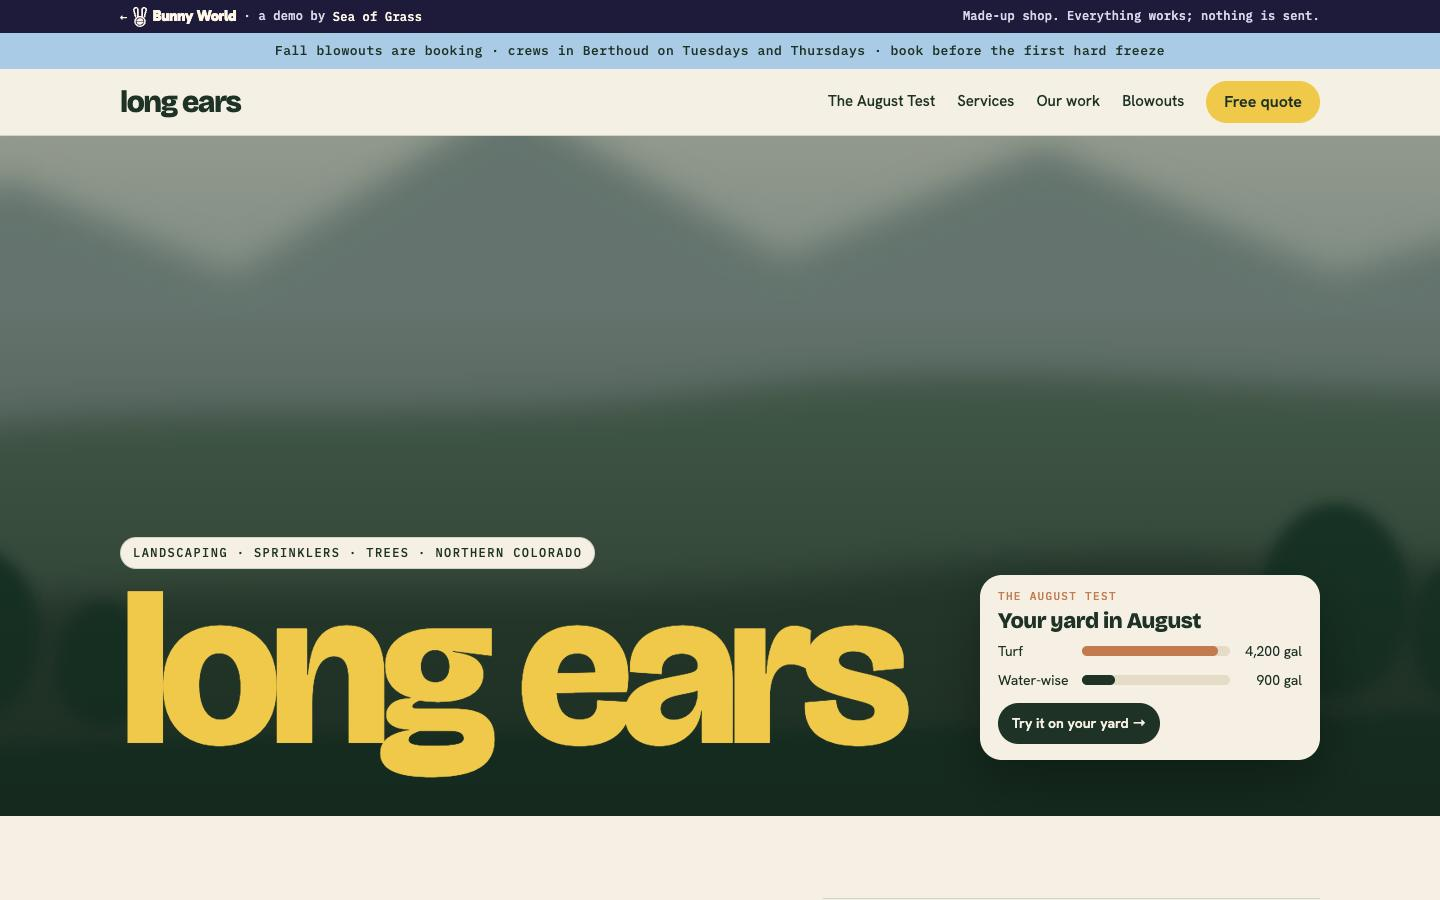
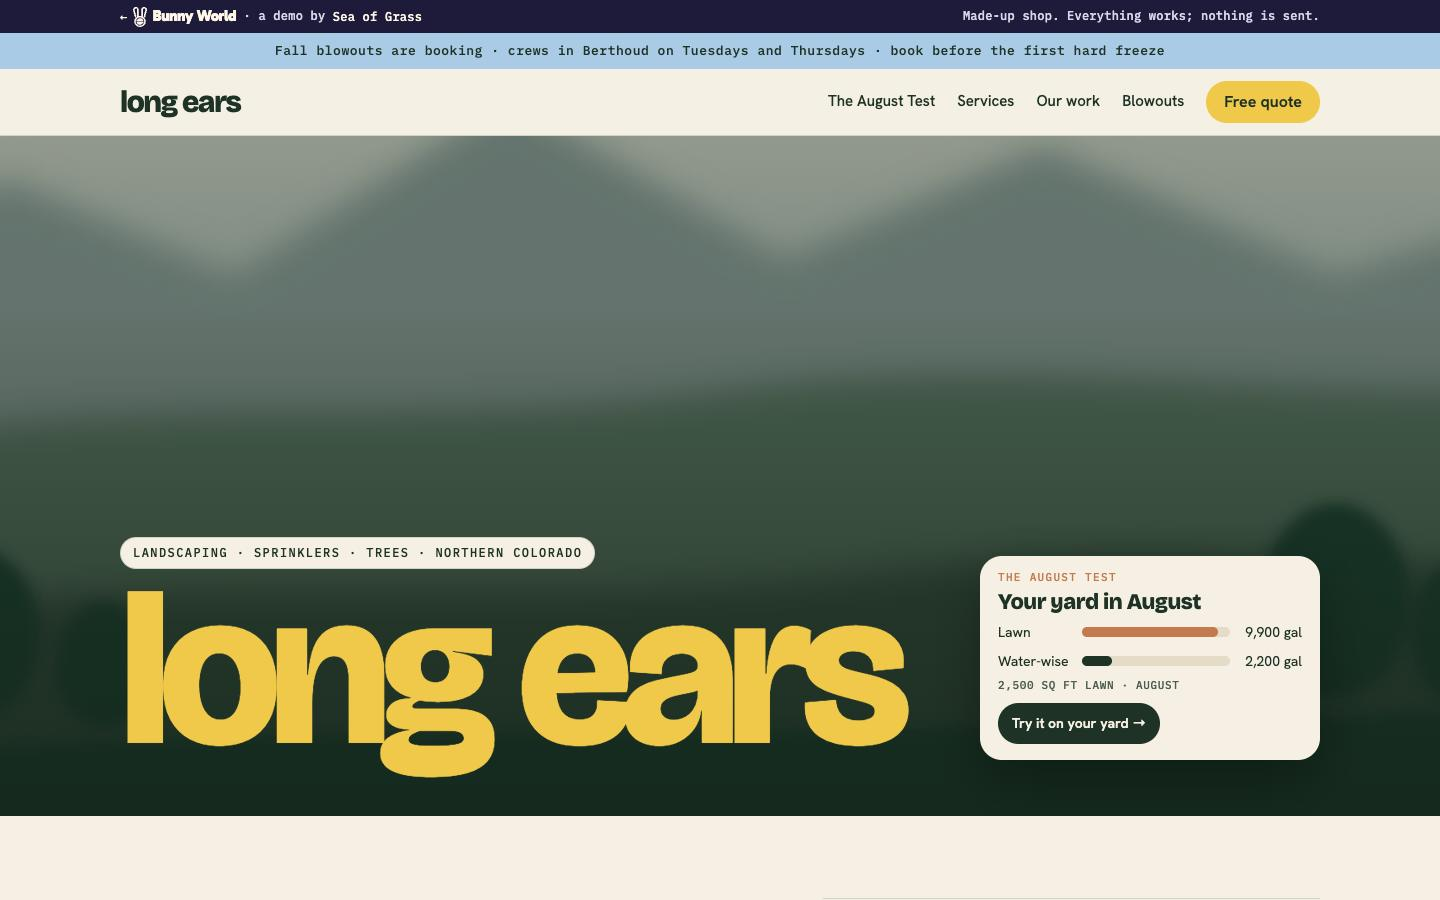
Long Ears: the hero teaser uses the August Test's own numbers
The teaser card said 4,200 vs 900 gallons, which matched nothing. It now
reads August from the same model and the test's current yard (default
2,500 sq ft of lawn: 9,900 vs 2,200 gal) and follows the test live (3,400
sq ft gives 13,464 vs 2,992, as in the table). It is labelled with the
yard size and month.

Changed region(s): [[0.6562, 0.5911, 0.9375, 0.7778]]

diff --git a/preview/work/bunny-world/long-ears/index.html b/preview/work/bunny-world/long-ears/index.html
@@ -16,7 +16,7 @@ window.dataLayer=window.dataLayer||[];function gtag(){dataLayer.push(arguments);
 <link rel="preconnect" href="https://fonts.googleapis.com"><link rel="preconnect" href="https://fonts.gstatic.com" crossorigin>
 <link rel="stylesheet" href="https://fonts.googleapis.com/css2?family=Bricolage+Grotesque:opsz,wght@12..96,600;12..96,700;12..96,800&family=Hanken+Grotesk:wght@400;500;600&family=IBM+Plex+Mono:wght@500&family=Gabarito:wght@900&family=Inter:wght@400;600&display=swap">
 <link rel="stylesheet" href="../shop.css?v=10">
-<link rel="stylesheet" href="style.css?v=10">
+<link rel="stylesheet" href="style.css?v=11">
 </head>
 <body>
 <div class="demo"><span><a class="bw-wm" href="../" aria-label="Back to Bunny World">&larr; <img src="../brand/mark-small-cream.svg?v=2" alt="" width="13" height="20"><span>Bunny World</span></a> &middot; a demo by <a href="/">Sea of Grass</a></span><span>Made-up shop. Everything works; nothing is sent.</span></div>
@@ -35,7 +35,7 @@ window.dataLayer=window.dataLayer||[];function gtag(){dataLayer.push(arguments);
 <g fill="none" stroke="#fff" stroke-width="1.6" opacity=".9"><path d="M80 120 H300 a30 30 0 0 1 24 12 L420 260"/><path d="M700 140 C640 210 640 260 700 320 L900 470 a30 30 0 0 0 40 0 L1080 360"/><path d="M380 520 a30 30 0 0 1 20 -28 L620 420"/></g>
 <g font-family="Hanken Grotesk, sans-serif" font-size="15" fill="#fff"><text x="90" y="110">xeriscape</text><text x="430" y="285">sprinklers</text><text x="690" y="130">trees</text><text x="1060" y="350">patios</text><text x="630" y="415">lawn care</text></g>
 <g transform="translate(560 470) rotate(0) scale(0.5)"><ellipse cx="0" cy="52" rx="34" ry="32" fill="#e8e2d2"/><path d="M-20 -14 C-34 -60 -32 -96 -16 -98 C-2 -96 -2 -56 -6 -18Z" fill="#e8e2d2"/><path d="M20 -14 C34 -60 32 -96 16 -98 C2 -96 2 -56 6 -18Z" fill="#e8e2d2"/><circle cx="0" cy="8" r="26" fill="#e8e2d2"/><circle cx="-9" cy="4" r="3.2" fill="#193f32" stroke="none"/><circle cx="9" cy="4" r="3.2" fill="#193f32" stroke="none"/><path d="M-4 13 L4 13 L0 18Z" fill="#193f32" stroke="none"/></g></svg></div><div class="over wrap"><p class="tag">Landscaping &middot; sprinklers &middot; trees &middot; Northern Colorado</p><h1>long ears</h1></div>
-<a class="aug-card" href="#test"><span class="k">The August Test</span><b>Your yard in August</b><span class="row"><span>Turf</span><span class="bar"><i style="width:92%"></i></span><span>4,200 gal</span></span><span class="row ww"><span>Water-wise</span><span class="bar"><i style="width:22%"></i></span><span>900 gal</span></span><span class="go">Try it on your yard &rarr;</span></a></section>
+<a class="aug-card" href="#test"><span class="k">The August Test</span><b>Your yard in August</b><span class="row"><span>Lawn</span><span class="bar"><i style="width:92%" data-tz-tbar></i></span><span data-tz-t>9,900 gal</span></span><span class="row ww"><span>Water-wise</span><span class="bar"><i style="width:20%" data-tz-wbar></i></span><span data-tz-w>2,200 gal</span></span><span class="tz-size" data-tz-size>2,500 sq ft lawn · August</span><span class="go">Try it on your yard &rarr;</span></a></section>
 <section class="intro wrap"><p class="lede">We listen for what you want (the ears help), then build yards that look good in August and don&rsquo;t drink the river.</p><ul class="cred"><li><b>19</b><span>years on the Front Range</span></li><li><b>1,400</b><span>yards and lots</span></li><li><b>48%</b><span>average water saved on xeriscape jobs</span></li></ul></section>
 <section class="test" id="test" aria-labelledby="test-h"><div class="wrap">
 <div class="t-head"><p class="kick">The August Test</p><h2 id="test-h">How does your yard do in August?</h2><p class="sub">Tell us roughly what you&rsquo;ve got, then drag through the year. Same yard, two ways.</p></div>
@@ -85,6 +85,6 @@ window.dataLayer=window.dataLayer||[];function gtag(){dataLayer.push(arguments);
 </main>
 <section class="want"><div><h2>Run a trade or contracting business? Your site can do all of this.</h2><p>Built in your own look, hooked to the tools you already use, kept running. Fixed price, in writing.</p></div><div style="display:flex;flex-wrap:wrap;gap:10px"><a href="https://cal.com/sea-of-grass" target="_blank" rel="noopener">Book a free 20-minute look</a><a class="back" href="../">Back to Bunny World</a></div></section>
 <script src="../bw.js?v=8" defer></script>
-<script src="yard.js?v=1" defer></script>
+<script src="yard.js?v=2" defer></script>
 </body>
 </html>

diff --git a/preview/work/bunny-world/long-ears/yard.js b/preview/work/bunny-world/long-ears/yard.js
@@ -36,6 +36,9 @@ function draw(){const m=st.m,c=calc(m),N=NOW[st.now];
   const stress=[.8,.8,.55,.15,0,.15,.55,1,.5,.45,.8,.8][m];
   turfFig.style.setProperty('--sep',(stress*.85).toFixed(2));turfFig.style.setProperty('--sat',(1-stress*.55).toFixed(2));turfFig.style.setProperty('--hue',(-stress*28).toFixed(0)+'deg');
   turfFig.classList.toggle('hot',m===7);
+  /* the hero teaser always shows August for the yard set here, from the same model */
+  const au=calc(7);$('[data-tz-t]').textContent=fmt(au.gt)+' gal';$('[data-tz-w]').textContent=fmt(au.gw)+' gal';
+  $('[data-tz-wbar]').style.width=(au.gt?92*au.gw/au.gt:0).toFixed(0)+'%';$('[data-tz-size]').textContent=`${fmt(st.size)} sq ft ${NOW[st.now].name.toLowerCase()} · August`;
   const y=year();
   $('[data-year]').innerHTML=`Switching this yard saves about <b>${fmt(y.g)} gallons</b> and <b>${money(y.b)}</b> in water a year, plus <b>${fmt(y.h)} hours</b> of mowing (or about <b>${money(y.mow)}</b> if you pay someone).`;
   reb();}

diff --git a/preview/work/bunny-world/long-ears/style.css b/preview/work/bunny-world/long-ears/style.css
@@ -127,3 +127,4 @@ h2{font-size:clamp(40px,5.4vw,80px);text-transform:lowercase;margin:0 0 18px}
 .b-l,.b-form,.t-ctl,.t-stage{min-width:0}
 @media (max-width:900px){.t-grid,.t-year,.b-grid,.intro,.area{grid-template-columns:minmax(0,1fr)}}
 .tag{max-width:calc(100vw - 32px);white-space:normal}
+.aug-card .tz-size{font:500 11px/1 var(--mf);letter-spacing:.06em;text-transform:uppercase;color:var(--muted)}
